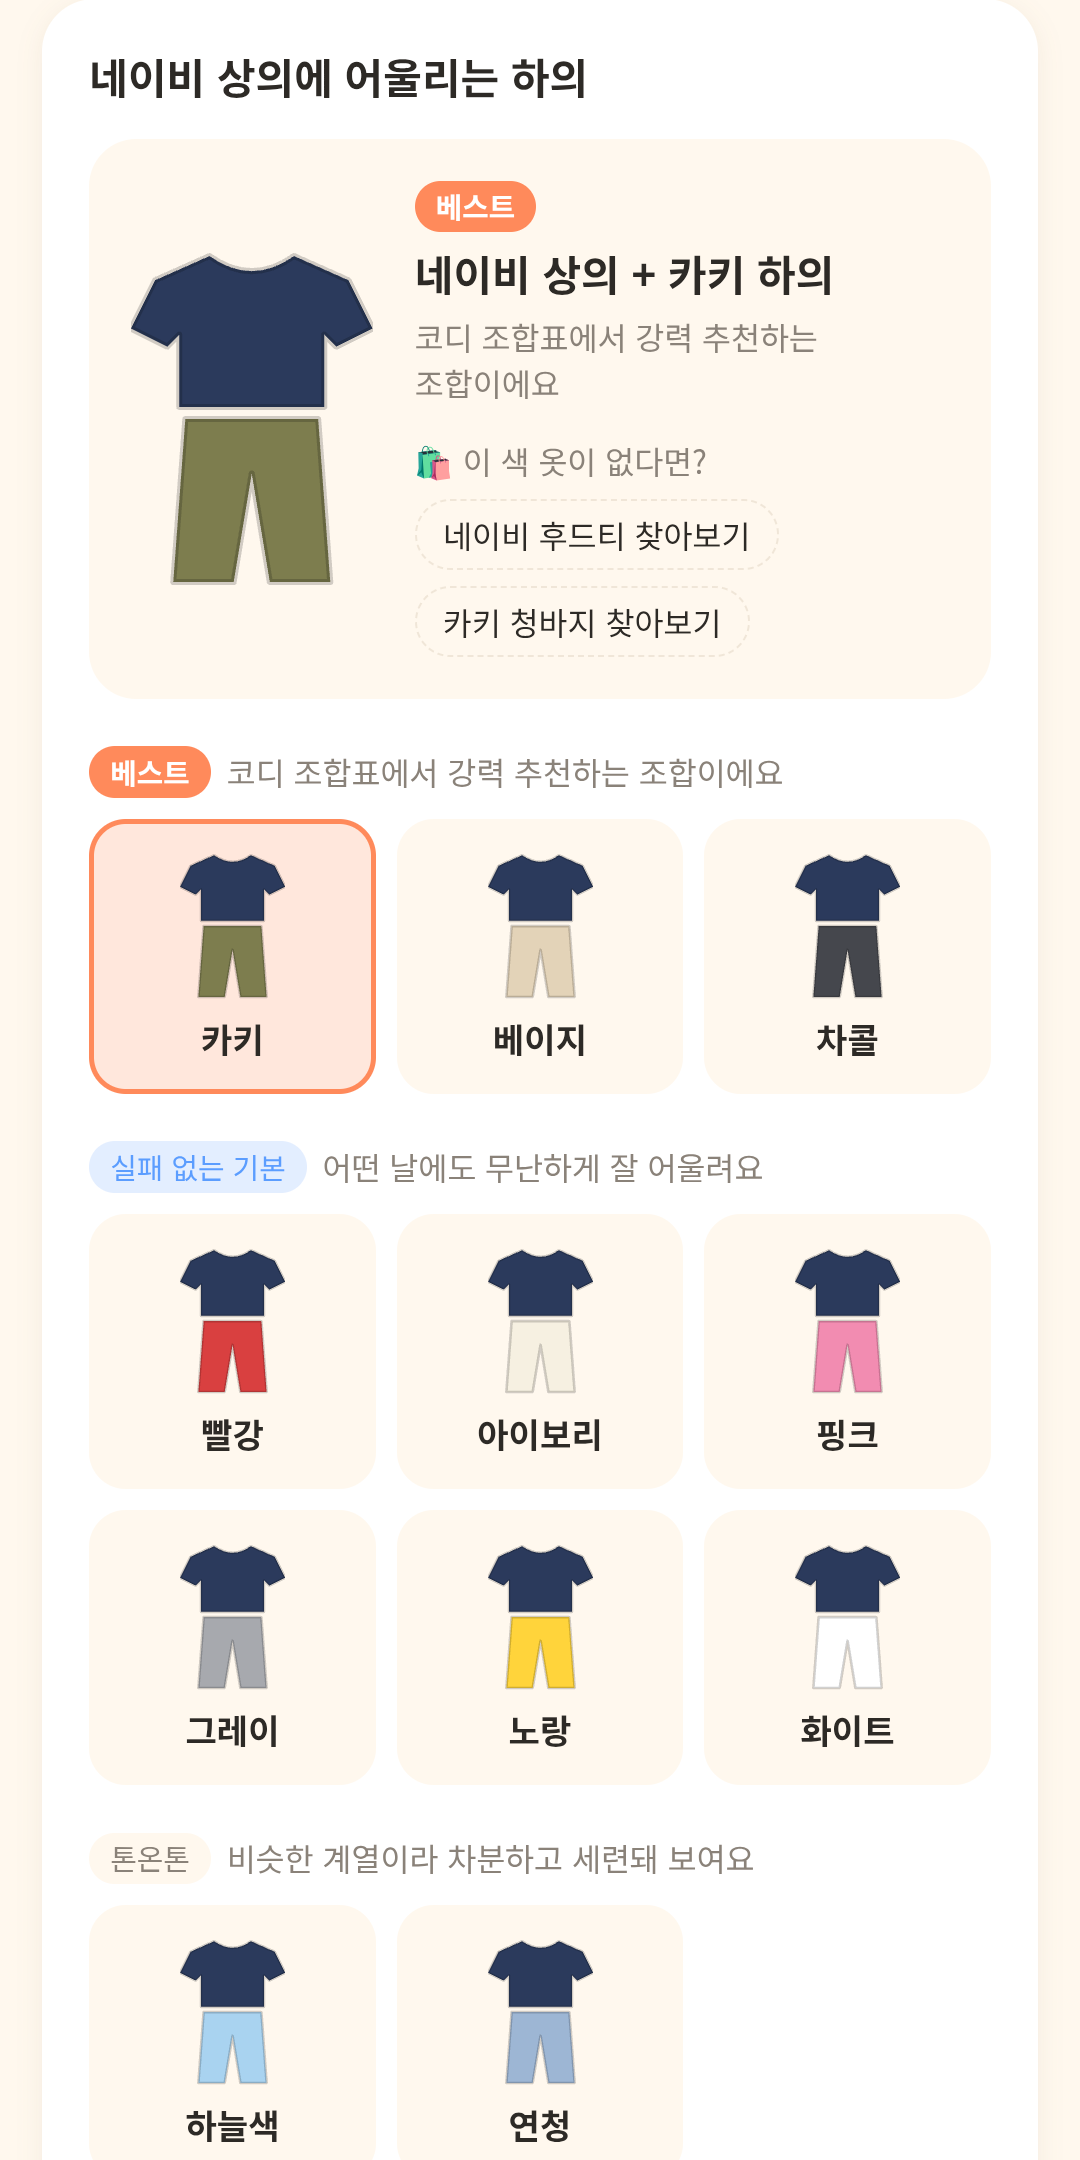
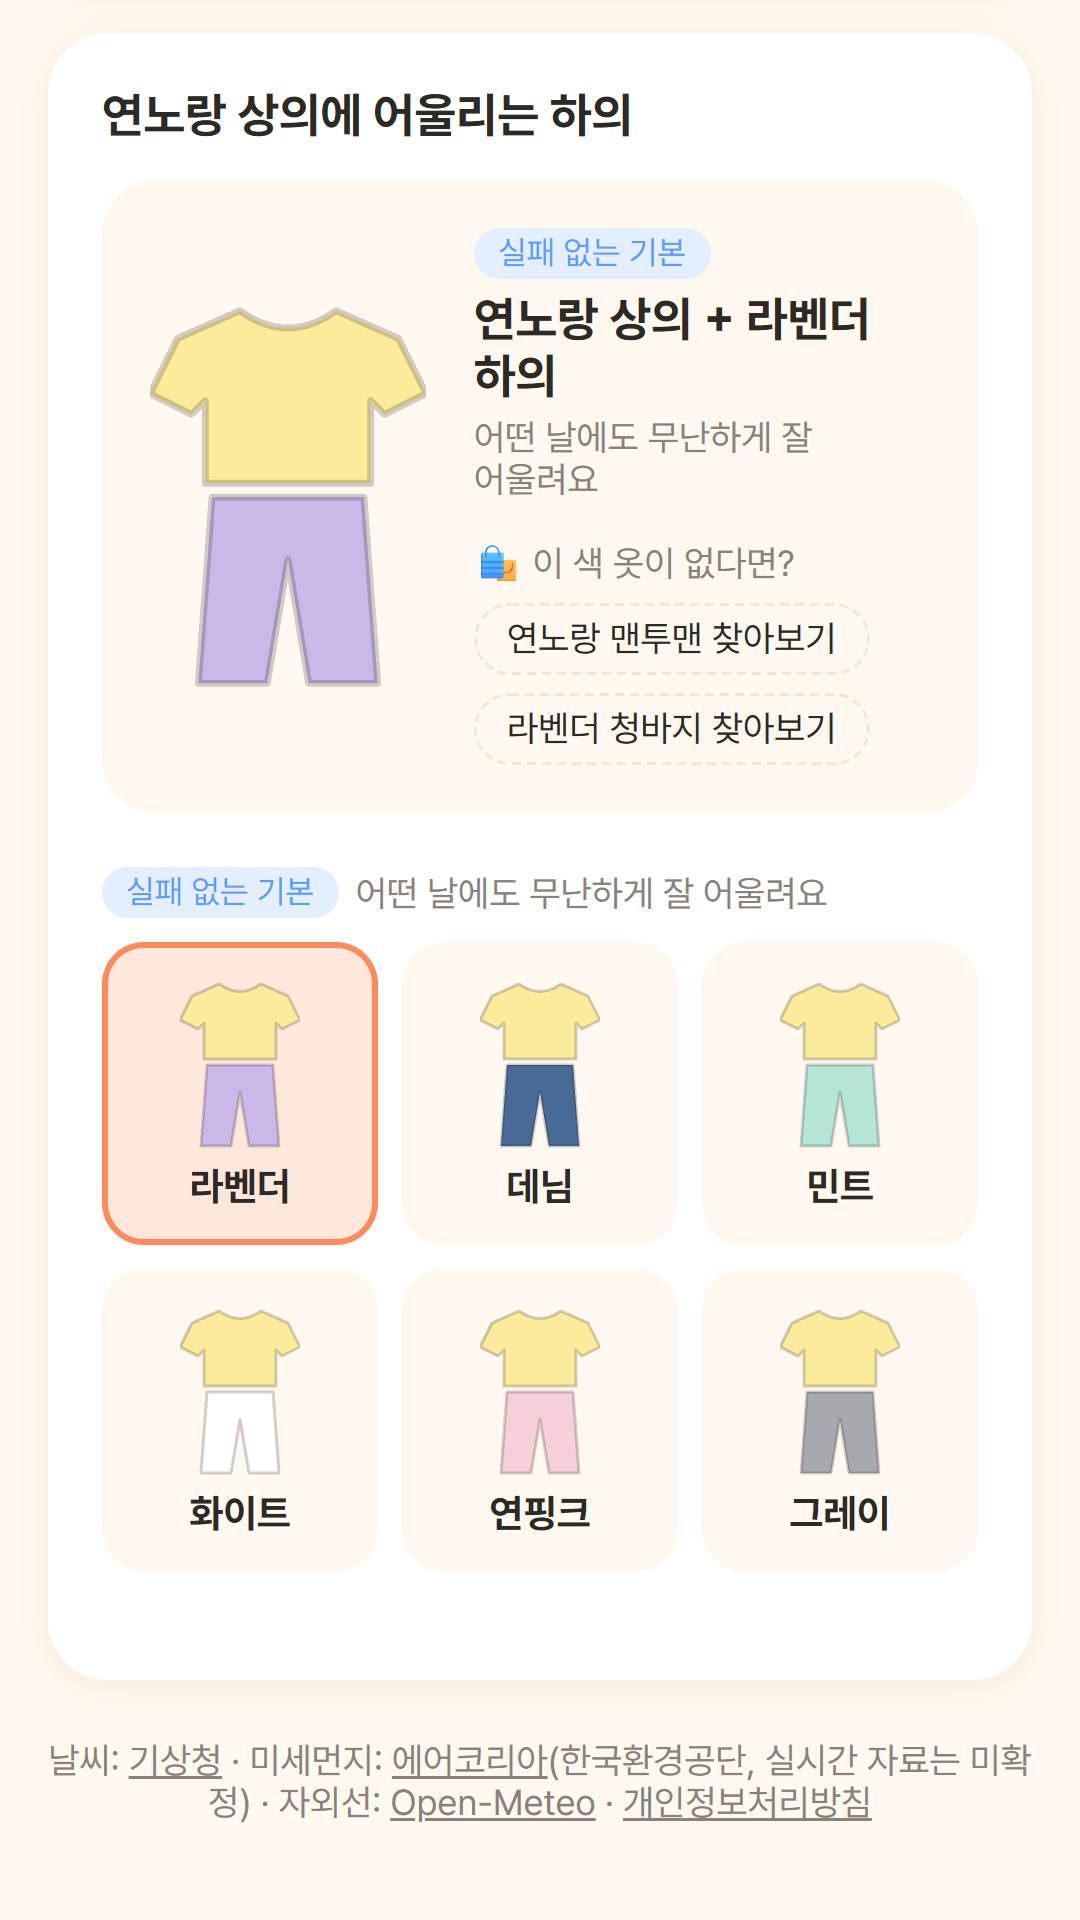
스토어 스크린샷 5장 새로(1080x1920, 9:16): 아이·나 화면, 색 조합, 설정

Changed region(s): [[0.0611, 0.0312, 0.825, 0.8125], [0.0306, 0.8438, 0.9472, 1.0], [0.55, 0.8438, 0.7028, 0.875]]

diff --git a/store/google-play.md b/store/google-play.md
@@ -63,7 +63,7 @@
 |---|---|---|
 | 앱 아이콘 | 512×512 PNG | ✅ `public/pwa-512.png` |
 | 그래픽 이미지 | 1024×500 PNG/JPG | ✅ `store/feature-graphic.png` (원본: `feature-graphic.html`) |
-| 휴대전화 스크린샷 | 2~8장, 세로, 긴 쪽이 짧은 쪽의 2배 이하 | ✅ `store/screenshots/` 4장 (1080×2160) |
+| 휴대전화 스크린샷 | 2~8장, 9:16 비율 (2026-11 기준) | ✅ `store/screenshots/` 5장 (1080×1920), 플레이 콘솔에 업로드됨 |
 
 ## 5. 앱 콘텐츠 설문 (답변 초안)
 
